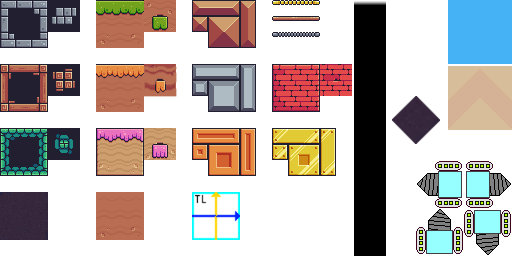
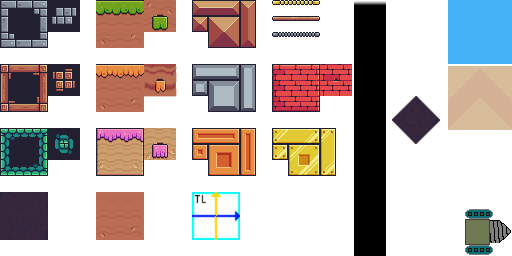
wip

Changed region(s): [[0.8125, 0.625, 1.0, 1.0]]

diff --git a/Demos/Deeper/Entities/Vehicle.cs b/Demos/Deeper/Entities/Vehicle.cs
@@ -7,7 +7,8 @@ using static Deeper.GameModel;
 
 internal class Vehicle : Sprite, IUpdateable
 {
-    private readonly Dictionary<Direction, Rectangle> frames = new();
+    private readonly Rectangle atlasFrame = new(462,208, 48, 48);
+    //private read-only Dictionary<Direction, Rectangle> frames = new();
     private readonly Sprite diggingBackground;
     private readonly GameModel gameModel;
 
@@ -19,19 +20,23 @@ internal class Vehicle : Sprite, IUpdateable
         : base(texture, new(gameModel.VehicleLocation.X * Map.TileSize, gameModel.VehicleLocation.Y * Map.TileSize), Map.TileSize, Map.TileSize)
     {
         this.gameModel = gameModel;
-        frames[Direction.West] = new(416, 160, Map.TileSize, Map.TileSize);
-        frames[Direction.East] = new(464, 160, Map.TileSize, Map.TileSize);
-        frames[Direction.North] = new(416, 208, Map.TileSize, Map.TileSize);
-        frames[Direction.South] = new(464, 208, Map.TileSize, Map.TileSize);
-        Frame = frames[Direction.East];
+        //frames[Direction.West] = new(416, 160, Map.TileSize, Map.TileSize);
+        //frames[Direction.East] = new(464, 160, Map.TileSize, Map.TileSize);
+        //frames[Direction.North] = new(416, 208, Map.TileSize, Map.TileSize);
+        //frames[Direction.South] = new(464, 208, Map.TileSize, Map.TileSize);
+        //Frame = frames[Direction.East];
+        Frame = atlasFrame;
+        Pivot = new(0.5f, 0.5f);
+        Anchor = new(0.5f, 0);
         Name = "Vehicle";
 
         diggingBackground = new Sprite(texture, Vector2.Zero, Map.TileSize, Map.TileSize)
         {
             Name = "DiggingBack",
             Frame = new(392, 96, Map.TileSize, Map.TileSize),
-            Anchor = new(0.5f, 1f),
+            Pivot = new(0f, 1),
             Visible = false,
+            Position = new(Map.TileSize/2, 0)
         };
         AddChild(diggingBackground);
         moveState = new MoveState(MovePhase.Idle, Direction.None, gameModel.VehicleLocation, null, null);
@@ -99,8 +104,16 @@ internal class Vehicle : Sprite, IUpdateable
                 Tint = ORANGE;
                 break;
         }
-                
-        Frame = frames[dir];
+
+        //Frame = frames[dir];
+        Angle = dir switch
+        {
+            Direction.East => 0,
+            Direction.North => 270,
+            Direction.West => 180,
+            Direction.South => 90,
+            _ => Angle
+        };
         diggingBackground.Visible = false;
         destinationPosition = new Vector2(destinationLocation.X, destinationLocation.Y) * Map.TileSize;
         gameModel.TransitionPosition = Position;

diff --git a/Engine/Components/Sprite.cs b/Engine/Components/Sprite.cs
@@ -33,6 +33,8 @@ public class Sprite : SceneNode2D
         IsDirty = true;
     }
 
+    protected Rectangle dst;
+
     /// <summary>
     /// Renders the sprite texture.
     /// </summary>
@@ -40,19 +42,22 @@ public class Sprite : SceneNode2D
     {
         if (Parent is IDrawable2D drawable)
         {
-            var tmp = new Vector2(drawable.Dst.X, drawable.Dst.Y) + Position;
-            if (tmp != worldPosition)
-            {
-                worldPosition = tmp;
-                IsDirty = true;
-            }
+            //var tmp = new Vector2(drawable.Dst.X, drawable.Dst.Y) + Position;
+            //if (tmp != worldPosition)
+            //{
+            //    worldPosition = tmp;
+            //    IsDirty = true;
+            //}           
+            IsDirty = true;
         }
 
         if (IsDirty)
         {
+            UpdateWorldMatrix();
             UpdateDestinationRectangle();
+            IsDirty = false;
         }
-        Raylib.DrawTexturePro(Texture, Frame, Dst, origin, Angle, Tint);
+        Raylib.DrawTexturePro(Texture, Frame, dst, origin, Angle, Tint);
     }
 
     private void HandleOnParentChanged()
@@ -66,12 +71,20 @@ public class Sprite : SceneNode2D
         var ay = Helpers.Lerp(0, height, anchor.Y);
         var px = Helpers.Lerp(0, width, pivot.X);
         var py = Helpers.Lerp(0, height, pivot.Y);
+        
+        // rotation is around dst top left corner
+        dst.x = Position.X + px - ax;
+        dst.y = Position.Y + py - ay;
+        dst.width = Width;
+        dst.height = Height;
+
+        worldMatrix.Translation = new (worldMatrix.Translation.X + px - ax, worldMatrix.Translation.Y + py - ay, 0);
+
         origin = new(px, py);
-        dst = new Rectangle(worldPosition.X + px - ax, worldPosition.Y + py - ay, Width, Height);
+        //dst = new Rectangle(position.X + px - ax, position.Y + py - ay, Width, Height);
         aabb = dst.CalcAabbForRotation(new(dst.X + px, dst.Y + py), Angle);
         aabb.x -= origin.X;
-        aabb.y -= origin.Y;
-        IsDirty = false;
+        aabb.y -= origin.Y;        
     }
 
     public override string ToString() => $"{base.ToString()}, texture id: {Texture.id}, frame: ({Frame.x},{Frame.y},{Frame.width},{Frame.height})";

diff --git a/Engine/Components/SceneNode2D.cs b/Engine/Components/SceneNode2D.cs
@@ -6,35 +6,53 @@ using System.Numerics;
 
 public abstract class SceneNode2D : SceneNode, IDrawable2D
 {
-    protected Vector2 worldPosition = Vector2.Zero;
-    protected float worldAngle;
-
-    protected Rectangle dst;
     protected Vector2 position = Vector2.Zero;
     protected Vector2 pivot = Vector2.Zero;
     protected Vector2 anchor = Vector2.Zero;
+    protected Vector2 scale = Vector2.One;
     protected int width;
     protected int height;
     protected Vector2 origin;
     protected float angle;
     protected Rectangle aabb;
     protected Rectangle frame;
+    
 
-    /// <summary>
-    /// Returns the texture destination rectangle.
-    /// </summary>
-    public Rectangle Dst => dst;
+    protected void UpdateWorldMatrix()
+    {
+        if (Parent is IDrawable2D pd && pd != null)
+        {
+            worldMatrix = pd.WorldMatrix * (this as IDrawable2D).WorldMatrix;
+        }
+        else
+        {
+            worldMatrix = (this as IDrawable2D).WorldMatrix;
+        }
+    }
+   
 
     /// <summary>
     /// Axis aligned bounding box.
     /// </summary>
     public Rectangle Aabb => aabb;
 
-
     /// <summary>
     /// The texture to be rendered.
     /// </summary>
     public Texture Texture { get; set; }
+
+    /// <summary>
+    /// Sprites scale.
+    /// </summary>
+    public Vector2 Scale
+    {
+        get => scale;
+        set
+        {
+            scale = value;
+            IsDirty = true;
+        }
+    }
 
     /// <summary>
     /// Sprite position in pixels.
@@ -47,7 +65,6 @@ public abstract class SceneNode2D : SceneNode, IDrawable2D
             if (position != value)
             {
                 position = value;
-                worldPosition = position;
                 IsDirty = true;
             }
         }
@@ -64,7 +81,6 @@ public abstract class SceneNode2D : SceneNode, IDrawable2D
             if (angle != value)
             {
                 angle = value;
-                worldAngle = angle;
                 IsDirty = true;
             }
         }

diff --git a/Engine/Core/IDrawable.cs b/Engine/Core/IDrawable.cs
@@ -15,9 +15,25 @@ public interface IDrawable
 
 public interface IDrawable2D : IDrawable
 {
+    /// <summary>
+    /// Scale in X, Y direction..
+    /// </summary>
+    Vector2 Scale { get; }
+
+    /// <summary>
+    /// Angle in degrees.
+    /// </summary>
     float Angle { get; }
+
+    /// <summary>
+    /// Position in local space (relative to parent).
+    /// </summary>
     Vector2 Position { get; }
+
     Vector2 Pivot { get; }
     Vector2 Anchor { get; }
-    Rectangle Dst { get; }
+    
+    Matrix4x4 WorldMatrix => Matrix4x4.CreateScale(Scale.X, Scale.Y, 1) *
+                             Matrix4x4.CreateRotationZ((float)(Angle * Helpers.DEGREE_2_RADIAN)) *
+                             Matrix4x4.CreateTranslation(Position.X, Position.Y, 0);
 }

diff --git a/Engine/Components/SceneNode.cs b/Engine/Components/SceneNode.cs
@@ -1,12 +1,18 @@
 namespace RaylibEngine.Components;
 
 using RaylibEngine.Core;
+using System.Numerics;
 
 /// <summary>
 /// Abstract drawable container.
 /// </summary>
 public abstract class SceneNode : Container, IDrawable
 {
+    /// <summary>
+    /// World transformation matrix.
+    /// </summary>
+    protected Matrix4x4 worldMatrix = Matrix4x4.Identity;
+
     public bool Visible { get; set; }
 
     public bool IsDirty { get; set; }

diff --git a/Demos/SpriteTest/Program.cs b/Demos/SpriteTest/Program.cs
@@ -10,7 +10,11 @@ public static class Program
     {
         SetConfigFlags((uint)(ConfigFlags.FLAG_WINDOW_RESIZABLE | ConfigFlags.FLAG_MSAA_4X_HINT));
         InitWindow(0, 0, Title);
-
+        var monitorCount = GetMonitorCount();
+        if (monitorCount > 0)
+        {
+            SetWindowMonitor(1);
+        }
         SetTargetFPS(144);
         SpriteScene bunnyScene = new(Title);
         SceneManager.ActivateScene(bunnyScene);

diff --git a/Engine/Components/TilingSprite.cs b/Engine/Components/TilingSprite.cs
@@ -18,8 +18,9 @@ public class TilingSprite : Sprite, IDrawable
         if (IsDirty)
         {
             UpdateDestinationRectangle();
+            IsDirty = false;
         }
 
-        Raylib.DrawTextureTiled(Texture, Frame, Dst, origin, Angle, 1.0f, Tint);
+        Raylib.DrawTextureTiled(Texture, Frame, dst, origin, Angle, 1.0f, Tint);
     }
 }

diff --git a/Demos/SnakeGame/Scenes/GameScene.cs b/Demos/SnakeGame/Scenes/GameScene.cs
@@ -207,7 +207,7 @@ internal class GameScene : Scene
     {
         if (IsKeyDown(KeyboardKey.KEY_SPACE))
         {
-            if (gameModel.State == GameState.Died)
+            if (gameModel.State == GameState.Died)cls
             {
                 requestedDirection = Direction.None;
                 gameModel.RestartLevel();

diff --git a/Demos/Deeper/Entities/DeeperScene.cs b/Demos/Deeper/Entities/DeeperScene.cs
@@ -50,8 +50,8 @@ internal class DeeperScene : Scene
         //	players vehicle		
         vehicle = new Vehicle(atlas, gameModel)
         {
-            Pivot = new(0.5f, 1f),
-            Anchor = new(0.5f, 0f),
+            //Pivot = new(0.5f, 1f),
+            //Anchor = new(0.5f, 0f),
         };
         AddChild(vehicle);
 
